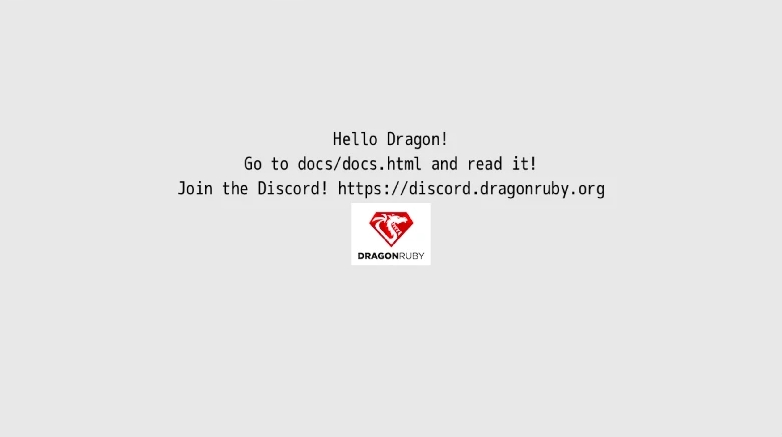
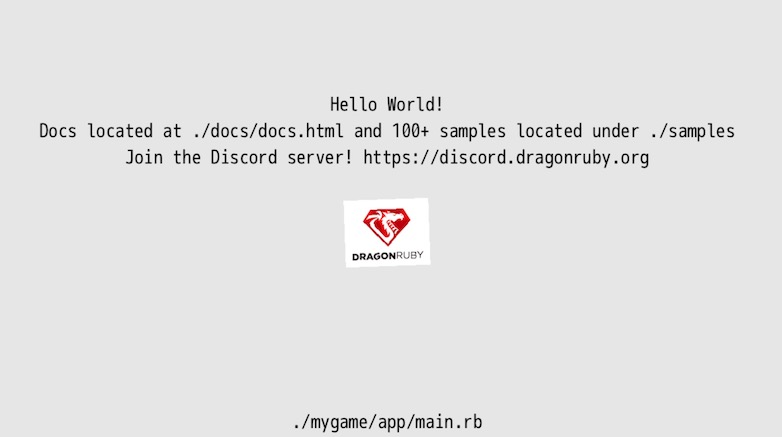
Refresh hello-dragon image and related text
The latest DRGTK version default output has different text and also
has a rotating DragonRuby image. This commit updates image and text.

For the image, I tried to use the same specs as the original image,
but please let me know if it needs to change.

For the text, I added the fact that the image rotates. But, again,
if leaving this out was intentional, please let me know.

diff --git a/src/01-hello-dragon.md b/src/01-hello-dragon.md
@@ -47,7 +47,7 @@ This isn't a game... yet! But it is doing three key things:
 
 1. Launching an app window
 2. Rendering text
-3. Displaying an image
+3. Displaying and rotating an image
 
 And you haven't even written any code yet. Not a bad starting place.
 
